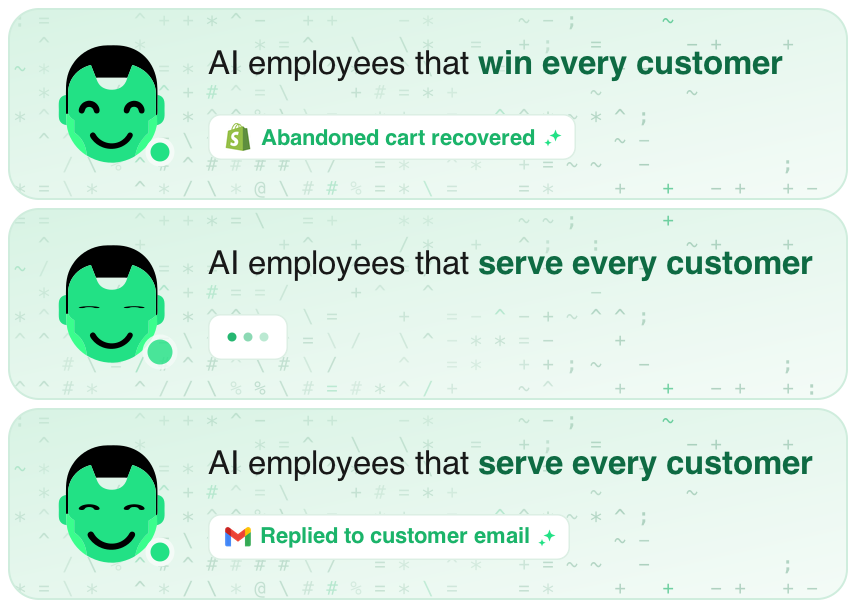
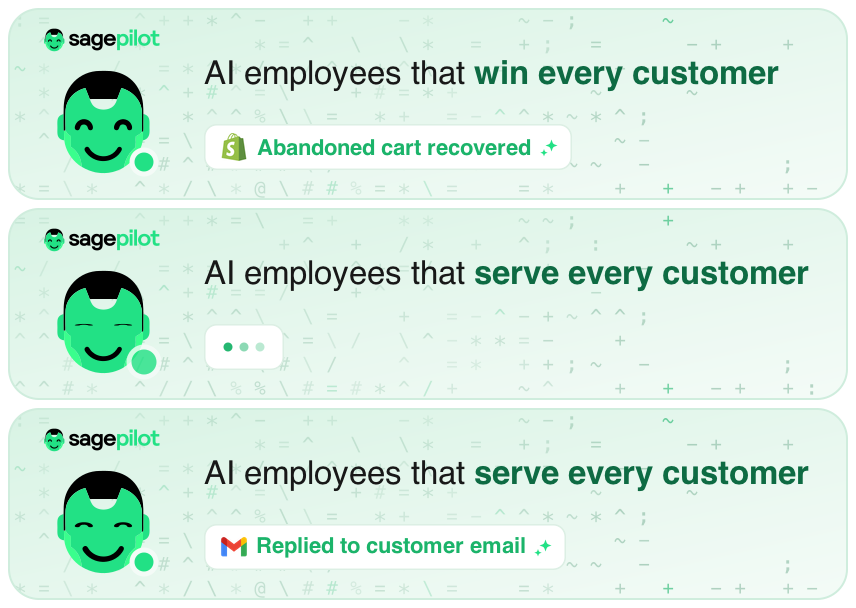
Bake the sagepilot wordmark into the hero GIF
The wordmark now sits top-left of the mint hero card, above the robot; the
mint background travels with the logo so Sage stays crisp in dark mode with
no separate image, chip, or swap. Robot shrunk and lowered, headline/chip
nudged down to balance the left stack. Full variant drops the inline
role-line logo (the hero carries the brand); role line is plain text.
Constant wordmark = no per-frame cost, GIF holds at ~450KB.

diff --git a/signature-builder.html b/signature-builder.html
@@ -449,29 +449,17 @@ function sigHtml(forCopy) {
   const rightBits = [`<a href="mailto:${esc(email)}" style="${linkStyle}">${esc(email)}</a>`];
   if (phone) rightBits.push(`<span style="color:#6F6F6F;">${esc(phone)}</span>`);
 
-  // The real logo at text size instead of typed-out "Sagepilot" — 64x15
-  // display from a 128x30 asset, so it stays 2x crisp. Always static: at this
-  // size a blink reads as a glitch rather than charm.
-  const brandWord =
-    `<a href="${site}" style="text-decoration:none;">` +
-    logoImg(
-      "sagepilot-logo-chip-inline.png",
-      72,
-      20,
-      "display:inline-block;border:0;width:72px;height:20px;vertical-align:-5px;",
-    ) +
-    `</a>`;
-
   const heroFile = state.logo === "animated" ? "sagepilot-hero-animated.gif" : "sagepilot-hero.png";
 
   // Three composed blocks: typographic identity, ONE hero scene (the robot
-  // working), then a single action line — ink CTA left, quiet links right.
+  // working, with the sagepilot wordmark baked in), then a single action line.
+  // The hero carries the brand, so the role line stays plain text.
   if (state.variant === "full") {
     return `<table role="presentation" cellpadding="0" cellspacing="0" border="0" width="420" style="width:420px;font-family:'Instrument Sans',Helvetica,Arial,sans-serif;">
   <tr>
     <td colspan="2">
       <div style="font-size:17px;line-height:23px;font-weight:600;letter-spacing:-0.3px;color:#181818;">${name}${liIcon}</div>
-      <div style="font-size:13px;line-height:19px;color:#6F6F6F;padding-top:1px;">${role}${role ? ",&nbsp;" : ""}${brandWord}</div>
+      <div style="font-size:13px;line-height:19px;color:#6F6F6F;padding-top:1px;">${role}</div>
     </td>
   </tr>
   <tr>
